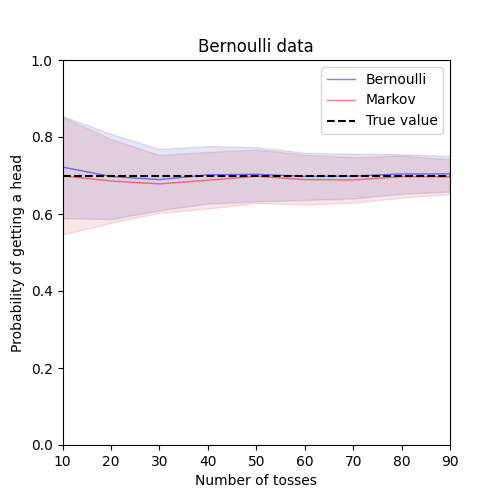
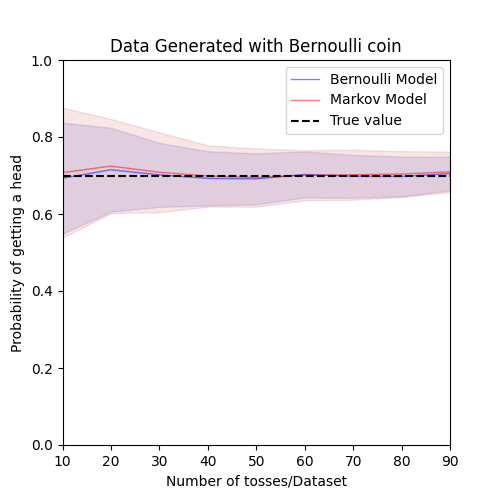
added delta plot

diff --git a/CoinToss/main.py b/CoinToss/main.py
@@ -43,46 +43,69 @@ for j in range(len(NUM_FLIPS_RANGE)):
 
 # Plotting the results with mean with shaded standard deviation area
 fig, ax = plt.subplots(figsize=FIG_SIZE)
-ax.plot(NUM_FLIPS_RANGE, bernoulli_p_bd.mean(axis=1), alpha=0.5, color='blue', label='Bernoulli', linewidth = 1.0)
+ax.plot(NUM_FLIPS_RANGE, bernoulli_p_bd.mean(axis=1), alpha=0.5, color='blue', label='Bernoulli Model', linewidth = 1.0)
 ax.fill_between(NUM_FLIPS_RANGE,
                 bernoulli_p_bd.mean(axis=1) - bernoulli_p_bd.std(axis=1),
                 bernoulli_p_bd.mean(axis=1) + bernoulli_p_bd.std(axis=1),
                 color='#0000bb',
                 alpha=0.1)
-ax.plot(NUM_FLIPS_RANGE, markov_p_bd.mean(axis=1), alpha=0.5, color='red', label='Markov', linewidth = 1.0)
+ax.plot(NUM_FLIPS_RANGE, markov_p_bd.mean(axis=1), alpha=0.5, color='red', label='Markov Model', linewidth = 1.0)
 ax.fill_between(NUM_FLIPS_RANGE,
                 markov_p_bd.mean(axis=1) - markov_p_bd.std(axis=1),
                 markov_p_bd.mean(axis=1) + markov_p_bd.std(axis=1),
                 color='#bb0000',
                 alpha=0.1)
 ax.axhline(y=P, color='black', linestyle='--', label='True value')
-ax.set_xlabel('Number of tosses')
+ax.set_xlabel('Number of tosses/Dataset')
 ax.set_ylabel('Probability of getting a head')
-ax.set_title('Bernoulli data')
+ax.set_title('Data Generated with Bernoulli coin')
 ax.set_xlim([NUM_FLIPS_RANGE[0], NUM_FLIPS_RANGE[-1]])
 ax.set_ylim([0, 1])
 ax.legend(loc='best')
 plt.savefig('plots/bernoulli_data.png')
 
 fig, ax = plt.subplots(figsize=FIG_SIZE)
-ax.plot(NUM_FLIPS_RANGE, bernoulli_p_md.mean(axis=1), alpha=0.5, color='blue', label='Bernoulli', linewidth = 1.0)
+ax.plot(NUM_FLIPS_RANGE, bernoulli_p_md.mean(axis=1), alpha=0.5, color='blue', label='Bernoulli Model', linewidth = 1.0)
 ax.fill_between(NUM_FLIPS_RANGE,
                 bernoulli_p_md.mean(axis=1) - bernoulli_p_md.std(axis=1),
                 bernoulli_p_md.mean(axis=1) + bernoulli_p_md.std(axis=1),
                 color='#0000bb',
                 alpha=0.1)
-ax.plot(NUM_FLIPS_RANGE, markov_p_md.mean(axis=1), alpha=0.5, color='red', label='Markov', linewidth = 1.0)
+ax.plot(NUM_FLIPS_RANGE, markov_p_md.mean(axis=1), alpha=0.5, color='red', label='Markov Model', linewidth = 1.0)
 ax.fill_between(NUM_FLIPS_RANGE,
                 markov_p_md.mean(axis=1) - markov_p_md.std(axis=1),
                 markov_p_md.mean(axis=1) + markov_p_md.std(axis=1),
                 color='#bb0000',
                 alpha=0.1)
 ax.axhline(y=P, color='black', linestyle='--', label='True value')
-ax.set_xlabel('Number of tosses')
+ax.set_xlabel('Number of tosses/Dataset')
 ax.set_ylabel('Probability of getting a head')
-ax.set_title('Markov data')
+ax.set_title('Data Generated with Markov coin')
 ax.set_xlim([NUM_FLIPS_RANGE[0], NUM_FLIPS_RANGE[-1]])
 ax.set_ylim([0, 1])
 ax.legend(loc='best')
 plt.savefig('plots/markov_data.png')
 
+# Plotting the results of delta
+fig, ax = plt.subplots(figsize=FIG_SIZE)
+ax.plot(NUM_FLIPS_RANGE, markov_delta_bd.mean(axis=1), alpha=0.5, color='red', label='Bernoulli Coin', linewidth = 1.0)
+ax.fill_between(NUM_FLIPS_RANGE,
+                markov_delta_bd.mean(axis=1) - markov_delta_bd.std(axis=1),
+                markov_delta_bd.mean(axis=1) + markov_delta_bd.std(axis=1),
+                color='#bb0000',
+                alpha=0.1)
+ax.plot(NUM_FLIPS_RANGE, markov_delta_md.mean(axis=1), alpha=0.5, color='blue', label='Markov Coin', linewidth = 1.0)
+ax.fill_between(NUM_FLIPS_RANGE,
+                markov_delta_md.mean(axis=1) - markov_delta_md.std(axis=1),
+                markov_delta_md.mean(axis=1) + markov_delta_md.std(axis=1),
+                color='#0000bb',
+                alpha=0.1)
+ax.axhline(y=0, color='red', linestyle='--', label='True value for Bernoulli coin')
+ax.axhline(y=DELTA, color='black', linestyle='--', label='True value for Markov coin')
+ax.set_xlabel('Number of tosses/Dataset')
+ax.set_ylabel(r'$\delta$')
+ax.set_title('$\delta$ for Bernoulli and Markov coins')
+ax.set_xlim([NUM_FLIPS_RANGE[0], NUM_FLIPS_RANGE[-1]])
+ax.set_ylim([-0.5, 0.5])
+ax.legend(loc='best')
+plt.savefig('plots/delta.png')

diff --git a/CoinToss/models.py b/CoinToss/models.py
@@ -35,8 +35,8 @@ def markov_chain_mle(data):
     max_delta = 0
     for pr in np.linspace(0.01, 0.99, 100):
         p_s = np.log(pr) if data[0] == 1 else np.log(1 - pr)
-        for delta in np.linspace(0, 0.99, 100):
-            if pr + delta >= 1 or pr - delta <= 0:
+        for delta in np.linspace(-0.99, 0.99, 100):
+            if pr + delta >= 1 or pr - delta <= 0 or pr + delta <= 0 or pr - delta >= 1:
                 continue
             prob = p_s + m * np.log(pr + delta) + p * np.log(pr - delta) + n * np.log(1 - (pr + delta)) + q*np.log(1 - (pr - delta))
             if prob > max_prob:

diff --git a/README.md b/README.md
@@ -1,4 +1,4 @@
-# ModelingBasicsStudy
+# Modeling Basics Study
 A repository containing code to supplement my blog posts related to bias variance tradeoff.
 ### General Structure
 The general structure of the repository is as follows:  
@@ -29,9 +29,9 @@ conda install numpy
 conda install matplotlib
 ```
 ### Running Experiments
-#### Step 1 - Navigate to the Coin Toss directory
+#### Step 1 - Navigate to the CoinToss directory
 ```commandline
-cd "ModelingBasicsStudy/Coin Toss"
+cd "ModelingBasicsStudy/CoinToss"
 ```
 #### Step 2 - Update the parameters in `main.py` to your liking
 ```python
